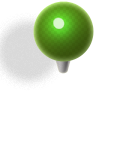
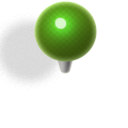
pin at user location

diff --git a/Classes/gl/GlViewController.m b/Classes/gl/GlViewController.m
@@ -9,12 +9,9 @@
 #import "GlViewController.h"
 #import "RasterLayer.h"
 #import "SettingsNavController.h"
-<<<<<<< HEAD
-=======
 #import "tubeAppDelegate.h"
 #import "SelectingTabBarViewController.h"
 #import "GlSprite.h"
->>>>>>> a8e683b... colored pins
 
 #define BUFFER_OFFSET(i) ((char *)NULL + (i))
 
@@ -28,67 +25,19 @@ enum
 };
 GLint uniforms[NUM_UNIFORMS];
 
-<<<<<<< HEAD
-GLfloat gCubeVertexData[216] = 
-{
-    // Data layout for each line below is:
-    // positionX, positionY, positionZ,     normalX, normalY, normalZ,
-    0.5f, -0.5f, -0.5f,        1.0f, 0.0f, 0.0f,
-    0.5f, 0.5f, -0.5f,         1.0f, 0.0f, 0.0f,
-    0.5f, -0.5f, 0.5f,         1.0f, 0.0f, 0.0f,
-    0.5f, -0.5f, 0.5f,         1.0f, 0.0f, 0.0f,
-    0.5f, 0.5f, -0.5f,          1.0f, 0.0f, 0.0f,
-    0.5f, 0.5f, 0.5f,         1.0f, 0.0f, 0.0f,
-    
-    0.5f, 0.5f, -0.5f,         0.0f, 1.0f, 0.0f,
-    -0.5f, 0.5f, -0.5f,        0.0f, 1.0f, 0.0f,
-    0.5f, 0.5f, 0.5f,          0.0f, 1.0f, 0.0f,
-    0.5f, 0.5f, 0.5f,          0.0f, 1.0f, 0.0f,
-    -0.5f, 0.5f, -0.5f,        0.0f, 1.0f, 0.0f,
-    -0.5f, 0.5f, 0.5f,         0.0f, 1.0f, 0.0f,
-    
-    -0.5f, 0.5f, -0.5f,        -1.0f, 0.0f, 0.0f,
-    -0.5f, -0.5f, -0.5f,       -1.0f, 0.0f, 0.0f,
-    -0.5f, 0.5f, 0.5f,         -1.0f, 0.0f, 0.0f,
-    -0.5f, 0.5f, 0.5f,         -1.0f, 0.0f, 0.0f,
-    -0.5f, -0.5f, -0.5f,       -1.0f, 0.0f, 0.0f,
-    -0.5f, -0.5f, 0.5f,        -1.0f, 0.0f, 0.0f,
-    
-    -0.5f, -0.5f, -0.5f,       0.0f, -1.0f, 0.0f,
-    0.5f, -0.5f, -0.5f,        0.0f, -1.0f, 0.0f,
-    -0.5f, -0.5f, 0.5f,        0.0f, -1.0f, 0.0f,
-    -0.5f, -0.5f, 0.5f,        0.0f, -1.0f, 0.0f,
-    0.5f, -0.5f, -0.5f,        0.0f, -1.0f, 0.0f,
-    0.5f, -0.5f, 0.5f,         0.0f, -1.0f, 0.0f,
-    
-    0.5f, 0.5f, 0.5f,          0.0f, 0.0f, 1.0f,
-    -0.5f, 0.5f, 0.5f,         0.0f, 0.0f, 1.0f,
-    0.5f, -0.5f, 0.5f,         0.0f, 0.0f, 1.0f,
-    0.5f, -0.5f, 0.5f,         0.0f, 0.0f, 1.0f,
-    -0.5f, 0.5f, 0.5f,         0.0f, 0.0f, 1.0f,
-    -0.5f, -0.5f, 0.5f,        0.0f, 0.0f, 1.0f,
-    
-    0.5f, -0.5f, -0.5f,        0.0f, 0.0f, -1.0f,
-    -0.5f, -0.5f, -0.5f,       0.0f, 0.0f, -1.0f,
-    0.5f, 0.5f, -0.5f,         0.0f, 0.0f, -1.0f,
-    0.5f, 0.5f, -0.5f,         0.0f, 0.0f, -1.0f,
-    -0.5f, -0.5f, -0.5f,       0.0f, 0.0f, -1.0f,
-    -0.5f, 0.5f, -0.5f,        0.0f, 0.0f, -1.0f
-};
-=======
 @interface Pin : NSObject {
     int Id;
     CGPoint pos;
     GlSprite *sprite;
+    CGFloat size;
 }
 
 -(id)initWithId:(int)pinId andColor:(int)color;
 -(void)setPosition:(CGPoint)point;
 -(void)draw;
+-(void)drawWithScale:(CGFloat)scale;
 
 @end
-
->>>>>>> a8e683b... colored pins
 
 @interface GlViewController () {
     GLuint _program;
@@ -112,6 +61,8 @@ GLfloat gCubeVertexData[216] =
     CGPoint panVelocity;
     CGFloat panTime;
     NSMutableArray *pinsArray;
+    
+    CGPoint userPosition;
 }
 @property (strong, nonatomic) EAGLContext *context;
 //@property (strong, nonatomic) GLKBaseEffect *effect;
@@ -135,17 +86,28 @@ GLfloat gCubeVertexData[216] =
     if((self = [super init])) {
         Id = pinId;
         sprite = [[GlSprite alloc] initWithPicture:@"pin_blue"];
+        size = 32;
     }
     return self;
 }
 
 -(void)setPosition:(CGPoint)point
 {
-    [sprite setRect:CGRectMake(point.x, point.y, 16, 16)];
+    pos = point;
 }
 
 -(void)draw
 {
+    const CGFloat s2 = size * 0.5f;
+    [sprite setRect:CGRectMake(pos.x-s2, pos.y-s2, size, size)];
+    [sprite draw];
+}
+
+-(void)drawWithScale:(CGFloat)scale
+{
+    size = 32.f / scale;
+    const CGFloat s2 = size * 0.5f;
+    [sprite setRect:CGRectMake(pos.x-s2, pos.y-s2, size, size)];
     [sprite draw];
 }
 
@@ -179,37 +141,6 @@ GLfloat gCubeVertexData[216] =
 - (void)viewDidLoad
 {
     [super viewDidLoad];
-<<<<<<< HEAD
-=======
-    pinsArray = [[NSMutableArray alloc] init];
-
-    CGRect scrollSize,settingsRect,shadowRect,zonesRect;
-    
-    //scrollSize = CGRectMake(0, 44,(320),(480-64));
-    //settingsRect=CGRectMake(285, 420, 27, 27);
-    //shadowRect = CGRectMake(0, 44, 480, 61);
-    zonesRect=CGRectMake(55, 420, 27, 27);
-    
-    if (IS_IPAD) {
-        //scrollSize = CGRectMake(0, 44, 768, (1024-74));
-        //settingsRect=CGRectMake(-285, -420, 27, 27);
-        //shadowRect = CGRectMake(0, 44, 1024, 61);
-        zonesRect=CGRectMake(-55, -420, 27, 27);
-    } else {
-        if ([[UIScreen mainScreen] respondsToSelector: @selector(scale)]) {
-            CGSize result = [[UIScreen mainScreen] bounds].size;
-            CGFloat scale = [UIScreen mainScreen].scale;
-            result = CGSizeMake(result.width * scale, result.height * scale);
-            
-            if(result.height == 1136){
-                //scrollSize = CGRectMake(0,44,(320),(568-64));
-                //settingsRect=CGRectMake(285, 508, 27, 27);
-                //shadowRect = CGRectMake(0, 44, 568, 61);
-                settingsRect=CGRectMake(55, 508, 27, 27);
-            }
-        }
-    }
->>>>>>> a8e683b... colored pins
     
     self.context = [[[EAGLContext alloc] initWithAPI:kEAGLRenderingAPIOpenGLES2] autorelease];
 
@@ -254,19 +185,10 @@ GLfloat gCubeVertexData[216] =
     [sourceData addTarget:self action:@selector(changeSource) forControlEvents:UIControlStateHighlighted];
     [view addSubview:sourceData];
 
-<<<<<<< HEAD
-=======
-    UIButton *zones = [UIButton buttonWithType:UIButtonTypeCustom];
-    [zones setImage:[UIImage imageNamed:@"zones_btn_normal"] forState:UIControlStateNormal];
-    [zones setImage:[UIImage imageNamed:@"zones_btn"] forState:UIControlStateHighlighted];
-    zones.frame = zonesRect;
-    [zones addTarget:self action:@selector(changeZones) forControlEvents:UIControlEventTouchUpInside];
-    [view addSubview:zones];
-    
+    // user geo position
     Pin *p = [[Pin alloc] initWithId:1 andColor:0];
     [pinsArray addObject:p];
-    [p setPosition:CGPointMake(0, 0)];
->>>>>>> a8e683b... colored pins
+    [p setPosition:userPosition];
 }
 
 -(void) changeSource
@@ -382,15 +304,8 @@ GLfloat gCubeVertexData[216] =
     //self.effect.light0.diffuseColor = GLKVector4Make(1.0f, 0.4f, 0.4f, 1.0f);
     
     glDisable(GL_DEPTH_TEST);
-    
-    glGenVertexArraysOES(1, &_vertexArray);
-    glBindVertexArrayOES(_vertexArray);
-    
-    glGenBuffers(1, &_vertexBuffer);
-    glBindBuffer(GL_ARRAY_BUFFER, _vertexBuffer);
-    glBufferData(GL_ARRAY_BUFFER, sizeof(gCubeVertexData), gCubeVertexData, GL_STATIC_DRAW);
-    
-    glBindVertexArrayOES(0);
+    glEnable(GL_BLEND);
+    glBlendFunc(GL_SRC_ALPHA, GL_ONE_MINUS_SRC_ALPHA);
 }
 
 - (void)tearDownGL
@@ -506,80 +421,6 @@ GLfloat gCubeVertexData[216] =
     }
 }
 
-<<<<<<< HEAD
-=======
--(void)showTabBarViewController
-{
-    SelectingTabBarViewController *controller = [[SelectingTabBarViewController alloc] initWithNibName:@"SelectingTabBarViewController" bundle:[NSBundle mainBundle]];
-    controller.delegate = self;
-    
-    CGRect frame = controller.view.frame;
-    frame.origin.y = self.view.frame.size.height;
-    controller.view.frame = frame;
-    
-    [self.view addSubview:controller.view];
-    frame.origin.y = 0;
-    
-    [UIView beginAnimations:nil context:nil];
-    [UIView setAnimationDuration:0.3f];
-    controller.view.frame = frame;
-    
-    [UIView commitAnimations];
-    
-    //(self.view).shouldNotDropPins = YES;
-    
-    [controller autorelease];
-}
-
--(void) changeZones
-{
-    tubeAppDelegate *appDelegate = (tubeAppDelegate *)[[UIApplication sharedApplication] delegate];
-    [appDelegate showMetroMap];
-    //[self dismissModalViewControllerAnimated:YES];
-}
-
--(void)pressedSelectFromStation
-{
-    currentSelection=fromStation;
-    [self showTabBarViewController];
-}
-
--(void)pressedSelectToStation
-{
-    currentSelection=toStation;
-    [self showTabBarViewController];
-}
-
--(void)resetFromStation
-{
-    currentSelection=fromStation;
-    [stationsView setToStation:self.toStation];
-    [self returnFromSelection:[NSArray array]];
-}
-
--(void)resetToStation
-{
-    currentSelection=toStation;
-    [stationsView setFromStation:self.fromStation];
-    [self returnFromSelection:[NSArray array]];
-}
-
--(void)resetBothStations
-{
-    MItem *tempSelection = currentSelection;
-    
-    currentSelection=fromStation;
-    [stationsView setToStation:nil];
-    [stationsView setFromStation:nil];
-    
-    self.fromStation=nil;
-    self.toStation=nil;
-    
-    [self returnFromSelection2:[NSArray array]];
-    
-    currentSelection=tempSelection;
-}
-
 -(int)newPin:(CGPoint)coordinate color:(int)color
 {
     
@@ -595,7 +436,6 @@ GLfloat gCubeVertexData[216] =
     
 }
 
->>>>>>> a8e683b... colored pins
 #pragma mark - GLKView and GLKViewController delegate methods
 
 - (void)update
@@ -717,7 +557,7 @@ GLfloat gCubeVertexData[216] =
 -(void)drawPins
 {
     for (Pin *p in pinsArray) {
-        [p draw];
+        [p drawWithScale:scale];
     }
 }
 
@@ -881,8 +721,8 @@ GLfloat gCubeVertexData[216] =
     float y = atanhf(sinf(pm.x * M_PI / 180.f));
     y = y * 256.f / (M_PI*2.f);
     CGPoint p;
-    p.x = pm.y * mult;
-    p.y = y;
+    p.x = 128.f + pm.y * mult;
+    p.y = 128.f - y;
     return p;
 }
 
@@ -899,6 +739,14 @@ GLfloat gCubeVertexData[216] =
     position.x = -(r.origin.y + r.size.height * 0.5f);
     position.y = (y1 + y2) * 0.5f;
     scale = 256.f / r.size.height;
+}
+
+-(void)setUserGeoPosition:(CGPoint)point
+{
+    CGPoint up = [self translateFromGeoToMap:point];
+    userPosition = up;
+    Pin *p = [pinsArray objectAtIndex:0];
+    if(p != nil) [p setPosition:up];
 }
 
 @end

diff --git a/Classes/tubeAppDelegate.h b/Classes/tubeAppDelegate.h
@@ -21,7 +21,7 @@ static void RGBtoHSV( float r, float g, float b, float *h, float *s, float *v );
     GlViewController *mainViewController;
     CityMap *cityMap;
     NSString *cityName;
-    
+    CGPoint userGeoP;
     NSOperationQueue    *parseQueue;
     
     //soj
@@ -37,6 +37,7 @@ static void RGBtoHSV( float r, float g, float b, float *h, float *s, float *v );
 @property (nonatomic, retain) NSString *cityName;
 @property (nonatomic, retain) NSOperationQueue *parseQueue; 
 @property (nonatomic, assign) BOOL shouldShowAd;
+@property (nonatomic, assign) CGPoint userGeoPosition;
 
 -(NSString*)nameCurrentMap;
 -(NSString*)nameCurrentCity;

diff --git a/Classes/tubeAppDelegate.m b/Classes/tubeAppDelegate.m
@@ -27,6 +27,17 @@ void uncaughtExceptionHandler(NSException *exception) {
     // Internal error reporting
 }
 
+-(void)setUserGeoPosition:(CGPoint)userGeoPosition
+{
+    userGeoP = userGeoPosition;
+    [gl setUserGeoPosition:userGeoP];
+}
+
+-(CGPoint)userGeoPosition
+{
+    return userGeoP;
+}
+
 - (void)applicationDidFinishLaunching:(UIApplication *)application {
     [[UIApplication sharedApplication] setStatusBarHidden:NO withAnimation:UIStatusBarAnimationNone];
     NSSetUncaughtExceptionHandler(&uncaughtExceptionHandler);

diff --git a/Classes/gl/GlViewController.h b/Classes/gl/GlViewController.h
@@ -21,5 +21,7 @@
 
 -(FastAccessTableViewController*)showTableView;
 -(void)returnFromSelectionFastAccess:(NSArray *)stations;
+-(void)setGeoPosition:(CGRect)rect;
+-(void)setUserGeoPosition:(CGPoint)point;
 
 @end
